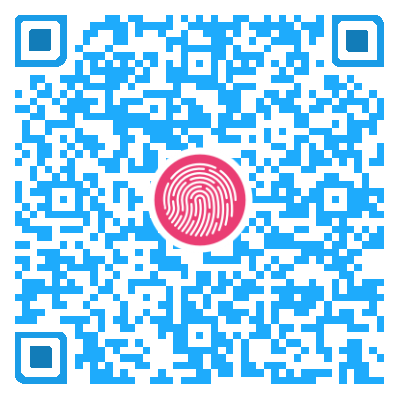
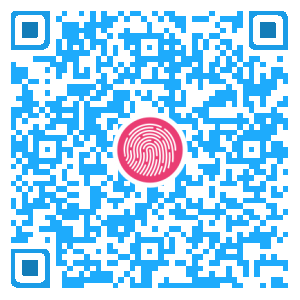
md

diff --git a/README.md b/README.md
@@ -7,7 +7,7 @@
 2. 参考 示例app
 
 # 使用方法
-![](https://pandao.github.io/editor.md/examples/images/4.jpg)
+![](https://github.com/abook23/godlibrary/blob/master/file/2.png)
 
 ## 引用
 ```java
